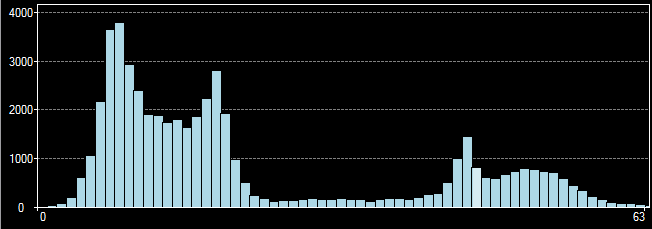
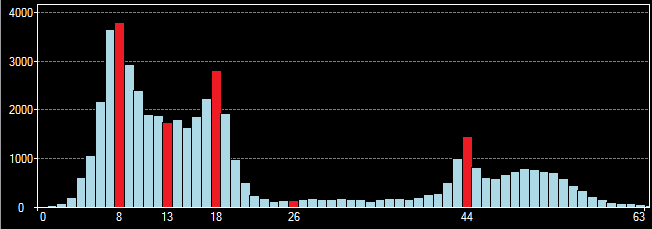
doc: fixes - last iteration (time for beer :))

diff --git a/doc/chapter_basics.tex b/doc/chapter_basics.tex
@@ -18,13 +18,13 @@ Dla trybu skali szarości
 gdzie $b$ jest liczbą bitów potrzebnych do reprezentacji jasności, 0 oznacza kolor czarny, $2^b-1$ kolor biały, a pozostałe wartości opisują jasność koloru. Najczęściej wartość $b$ jest wielokrotnością liczby 8.\\
 Dla trybu kolorowego
 \begin{gather*}
-  I = I_1 \times I_2 \times ... \times I_n,
+  I = I_1 \times I_2 \times ... \times I_C,
 \end{gather*}
 gdzie
 \begin{gather*}
-  I_1 = I_2 = ... = I_n = \{0, 1, ..., 2^b-1\}
+  I_1 = I_2 = ... = I_C = \{0, 1, ..., 2^b-1\}
 \end{gather*}
-oraz $n\in \mathbb{N} \wedge n > 1$ jest liczbą kanałów z przestrzeni barw. \\
+oraz $C \in \mathbb{N} \wedge n > 1$ jest liczbą kanałów z przestrzeni barw. \\
 Dla przestrzeni barw RGB
 \begin{gather*}
   I = I_R \times I_G \times I_B
@@ -33,10 +33,10 @@ gdzie $I_R$, $I_G$, $I_B$ oznaczają odpowiednio jasność kolorów czerwonego, 
 \subsubsection{Obraz cyfrowy}
 Obraz cyfrowy definiujemy jako funkcję
 \begin{gather*}
-  f: \{0, 1, ..., N-1\} \times \{0, 1, ..., M-1\} \rightarrow I,
+  f: \{0, 1, ..., N-1\} \times \{0, 1, ..., M-1\} \times {1, 2, ..., C} \rightarrow I,
 \end{gather*}
-gdzie $M$, $N$ oznaczają odpowiednio szerokość i wysokość obrazu.\\
-Wartość funkcji $f(x, y)$ nazywamy \textbf{pikselem}.\\
+gdzie $M$, $N$ oznaczają odpowiednio szerokość i wysokość obrazu, natomiast $C$ oznacza liczbę kanałów w obrazie.\\
+Wartość funkcji $f(x, y, c)$ nazywamy \textbf{pikselem}. Trzeci argument może być pominięty dla obrazów jednokanałowych, ponieważ w takiej sytuacji zawsze przyjmuje wartość 1.\\
 Obrazy cyfrowe możemy podzielić ze względu na tryb opisu koloru:
 \begin{itemize}
   \item czarno-białe,
@@ -131,7 +131,7 @@ Na rysunku~\ref{fig:threshold_image} przedstawiony został wynik operacji progow
 \paragraph{Progowanie obrazów wielokanałowych}\mbox{}\\
 Zazwyczaj operacji progowania poddawane są obrazy jednokanałowe. Istnieje jednak możliwość wykonania operacji progowania dla obrazów wielokanałowych (np. dla obrazów RGB). Operacja ta definiowana jest następującym wzorem:
 \begin{gather*}
-  f^{(out)}(x, y) = \left\{\begin{matrix}
+  f^{(out)}(x, y, c) = \left\{\begin{matrix}
   1, \; \text{jeżeli} \; \forall c \in C, \; f^{(in)}(x, y, c) > t(c),\\
   0, \; \text{jeżeli} \; \exists c \in C, \; f^{(in)}(x, y, c) \leq t(c),
   \end{matrix}\right. \quad (x, y) \in P^{(in)}_{N,M} c=0,1,2,...,C,
@@ -211,6 +211,11 @@ definiowana jest wzorem:
 Dodawanie obrazów z wagami zdefiniowane jest wzorem:
 \begin{gather*}
   f^{(out)}(x, y) = \displaystyle\sum_{i=1}^{n} f^{(in)}_i(x, y) \cdot w_i, \quad (x, y) \in P^{(in)}_{N,M}.
+\end{gather*}
+\paragraph{Dodawanie obrazów wielokanałowych} \mbox{}\\
+W przypadku obrazów wielokanałowych, operację dodawania wykonujemy dla każdego kanału osobno:
+\begin{gather*}
+  f^{(out)}(x, y, c) = \displaystyle\sum_{i=1}^{n} f^{(i)}(x, y), \quad (x, y, c) \in P^{(in)}_{N,M},\ c \in \{1, 2, ..., C\}.
 \end{gather*}
 \subsubsection{Wyostrzenie obrazu}
 W celu uzyskania efektu wyostrzonych krawędzi obrazu, należy wykonać na obrazie wejściowym operację rozmycia Gaussa, a następnie obraz wynikowy dodać do obrazu wejściowego z wagami:
@@ -376,7 +381,7 @@ Jako $H$ będziemy oznaczali funkcję zwracającą wartość histogramu w podany
 
 \subsubsection{Wyrównanie histogramu}
 Metoda wyrównywania histogramu ma na celu zmianę kontrastu obrazu. Metoda ta wykorzystywany jest w przypadku, gdy zarówno tło, jak i pierwszy plan obrazu, są ciemne lub jasne. Wadą metody wyrównywania histogramu jest możliwe wzmocnienie zakłóceń występujących na obrazie, gdyż algorytm traktuje je jak sygnał opisujący prawidłowy obraz. Przed zastosowaniem tej metody, warto zatem zastosować jeden z algorytmów rozmycia obrazu, opisywany we wcześniejszej części tego rozdziału.\\
-Metoda wyrównania histogramu sprowadza się do wyznaczenia tablicy LUT (\textit{ang. Lookup table}), na podstawie której wyznaczone zostaną wartości poszczególnych pikseli obrazu wejściowego. W celu wyznaczenia tablicy LUT, należy wyznaczyć dystrybuantę rozkładu prawdopodobieństwa dla wartości pikseli obrazu:
+Metoda wyrównania histogramu sprowadza się do wyznaczenia tablicy LUT (\textit{ang. Lookup table}), na podstawie której wyznaczone zostaną wartości jasności poszczególnych pikseli obrazu wejściowego. W celu wyznaczenia tablicy LUT, należy wyznaczyć dystrybuantę rozkładu prawdopodobieństwa dla wartości pikseli obrazu:
 \begin{gather*}
   D(i) = \sum\limits_{j=0}^i p(j),
 \end{gather*}

diff --git a/doc/chapter_methods.tex b/doc/chapter_methods.tex
@@ -118,13 +118,13 @@ gdzie $p_1$ jest pierwszą wartością szczytową w histogramie, a $p_2$ jest dr
 W rzeczywistych przypadkach bardzo często występuje sytuacja, w której piksele tła oraz piksele obiektu pierwszoplanowego nie mają takich samych wartości dla całego obiektu, ale przyjmują wiele wartości oscylujących wokół jednej z nich. Przykład takiego obrazu został pokazany na rysunku~\ref{fig:histogram_peaks}. Histogram zawiera widoczne trzy skupiska wartości (na pozycjach: 8, 18 oraz 44), natomiast obydwie największe wartości szczytowe w histogramie należą do jednego skupiska. Aby wyeliminować ten problem, należy zdefiniować minimalną odległość pomiędzy szczytami histogramu. Jeśli drugi szczyt będzie znajdował się zbyt blisko pierwszego, należy go odrzucić, i rozpocząć poszukiwanie kolejnego szczytu. Nie uwzględniając minimalnego odstępu pomiędzy szczytami, do wyznaczenia progu zostały by wybrane liczby 8 oraz 18, ponieważ są to dwie największe wartości w histogramie. Obydwie te wartości reprezentują tło, przez co segmentacja się nie powiodła (co można zobaczyć na rysunku~\ref{fig:histogram_peaks_bad}. Jeśli założymy, że szczyty nie mogą znajdować się od siebie bliżej niż wartość $\frac{1}{3}$ szerokości histogramu, do wyznaczenia progu zostanie użyta wartość 8 oraz 44. Wynikiem segmentacji natomiast będzie obraz przedstawiony na rysunku~\ref{fig:histogram_peaks_good}. Zwykle wartość minimalnej odległości pomiędzy szczytami dobiera się na podstawie przeprowadzonych wcześniej badań na danych testowych.
 \begin{figure}
   \centering
-  \begin{subfigure}[b]{0.7\textwidth}
+  \begin{subfigure}[b]{0.8\textwidth}
     \includegraphics[width=\textwidth]{img/histogram-peaks-input}
     \caption{Obraz wejściowy}
     \label{fig:histogram_peaks_input}
   \end{subfigure}
   ~
-  \begin{subfigure}[b]{0.7\textwidth}
+  \begin{subfigure}[b]{0.8\textwidth}
     \includegraphics[width=\textwidth]{img/histogram-peaks-histogram}
     \caption{Histogram obrazu wejściowego}
     \label{fig:histogram_peaks_histogram}
@@ -146,7 +146,7 @@ W rzeczywistych przypadkach bardzo często występuje sytuacja, w której piksel
 
 \subsubsection{Wyszukiwanie minimum histogramu}
 Metoda wyszukiwania minimum histogramu jest bardzo podobna do metody omawianej w poprzednim podpunkcie. Na początku wyszukiwane są dwie wartości szczytowe, które powinny być odległe od siebie o pewną ustaloną wartość. Jednak w przeciwieństwie do omawianego wcześniej algorytmu, jako wartość progową przyjmuje się najmniejszą wartość pomiędzy dwoma szczytami w histogramie. \\
-Rysunek~\ref{fig:histogram_valleys} przedstawia histogram pewnego obrazu. Stosując metodę wyszukiwania szczytów histogramu, jako wartość progowa wybralibyśmy wartość 102 (szczyty histogramów znajdują się na pozycjach 48 i 155). Stosując omawianą w tym podpunkcie metodę, jako wartość progowa zostanie wybrana wartość 129, która jest minimalną wartością znajdującą się pomiędzy szczytami histogramu.
+Rysunek~\ref{fig:histogram_valleys} przedstawia histogram pewnego obrazu. Stosując metodę wyszukiwania szczytów histogramu, jako wartość progowa wybralibyśmy wartość 102 (szczyty histogramów znajdują się na pozycjach 50 i 154). Stosując omawianą w tym podpunkcie metodę, jako wartość progowa zostanie wybrana wartość 129, która jest minimalną wartością znajdującą się pomiędzy szczytami histogramu.
 
 \begin{figure}
   \centering
@@ -247,6 +247,7 @@ $\mu$(x, y) - średnia wartości pikseli w zadanym otoczeniu piksela,\\
 $\sigma(x, y)$ - odchylenie standardowe w zadanym otoczeniu piksela,\\
 R - maksymalna wartość odchylenia standardowego(dla obrazu 8-bitowego jest to wartość 128),\\
 k - parametr algorytmu. \\
+Wyznaczenie rozmiaru oraz kształtu obszaru otoczenia wykonywane jest na podstawie badań danych testowych, najczęściej kształty obszaru otoczenia to kwadrat lub koło.
 \subsection{Segmentacja wododziałowa}
 Algorytm segmentacji wododziałowej polega na odnajdowaniu na obrazie krawędzi, będących granicami szukanych segmentów. Segmentacja wododziałowa wzorowana jest na naturalnym procesie hydrologicznym, polegającym na tworzeniu się zlewisk w lokalnie najniżej położonych obszarach geograficznych. \\
 \subsubsection{Podstawowe pojęcia}

diff --git a/doc/chapter_plates.tex b/doc/chapter_plates.tex
@@ -106,7 +106,7 @@ Algorytm określania liczby linii metodą porównywania liczby lokalizacji przed
     \begin{gather*}
       abs(tmp.y - c.y) < 0.2*avg\_h,
     \end{gather*}
-    gdzie $tmp$ to znak umieszczony w zmiennej tymczasowej, $c$ to znak pobrany z kolejki, a $avg\_h$ to średnia wysokość znaku. Jeśli warunek nie jest spełniony, numer rejestracyjny zapisany jest w dwóch liniach. Algorytm kończy działanie.
+    gdzie $tmp$ to znak umieszczony w zmiennej tymczasowej, $c$ to znak pobrany z kolejki, a $avg\_h$ to średnia wysokość znaku. Wartość współczynnika $0.2$ została wyznaczona empirycznie - dla tej wartości otrzymywałem najlepsze wyniki podczas wykonywania testów. Jeśli warunek nie jest spełniony, numer rejestracyjny zapisany jest w dwóch liniach. Algorytm kończy działanie.
   \item Zapisać do zmiennej tymczasowej znak pobrany z kolejki.
   \item Jeśli kolejka nie jest pusta, przejść do punktu 4).
   \item Numer rejestracyjny został zapisany w jednej linii. Algorytm kończy działanie.
